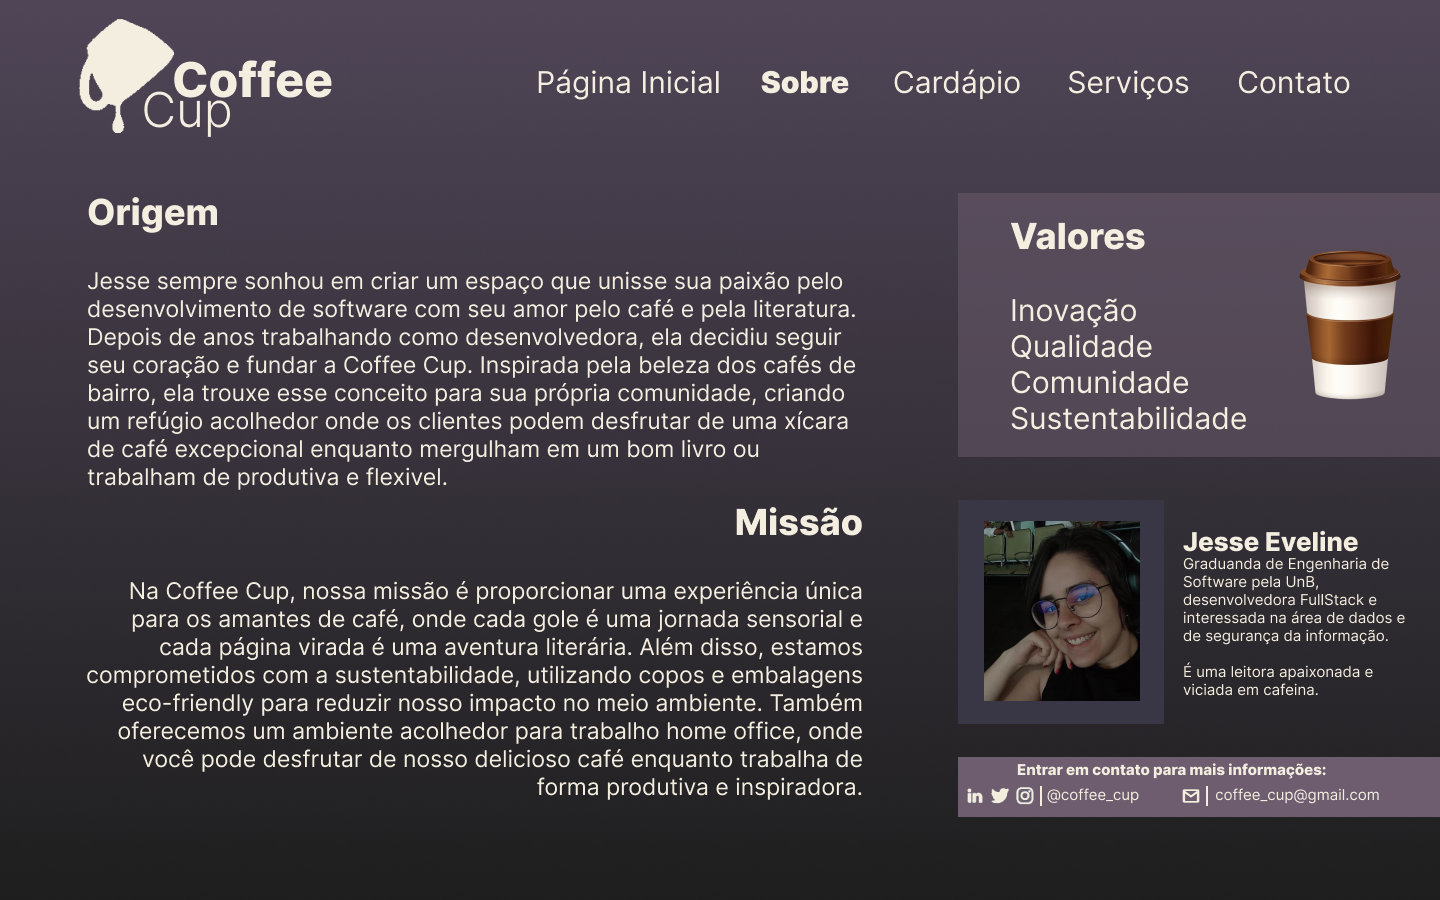
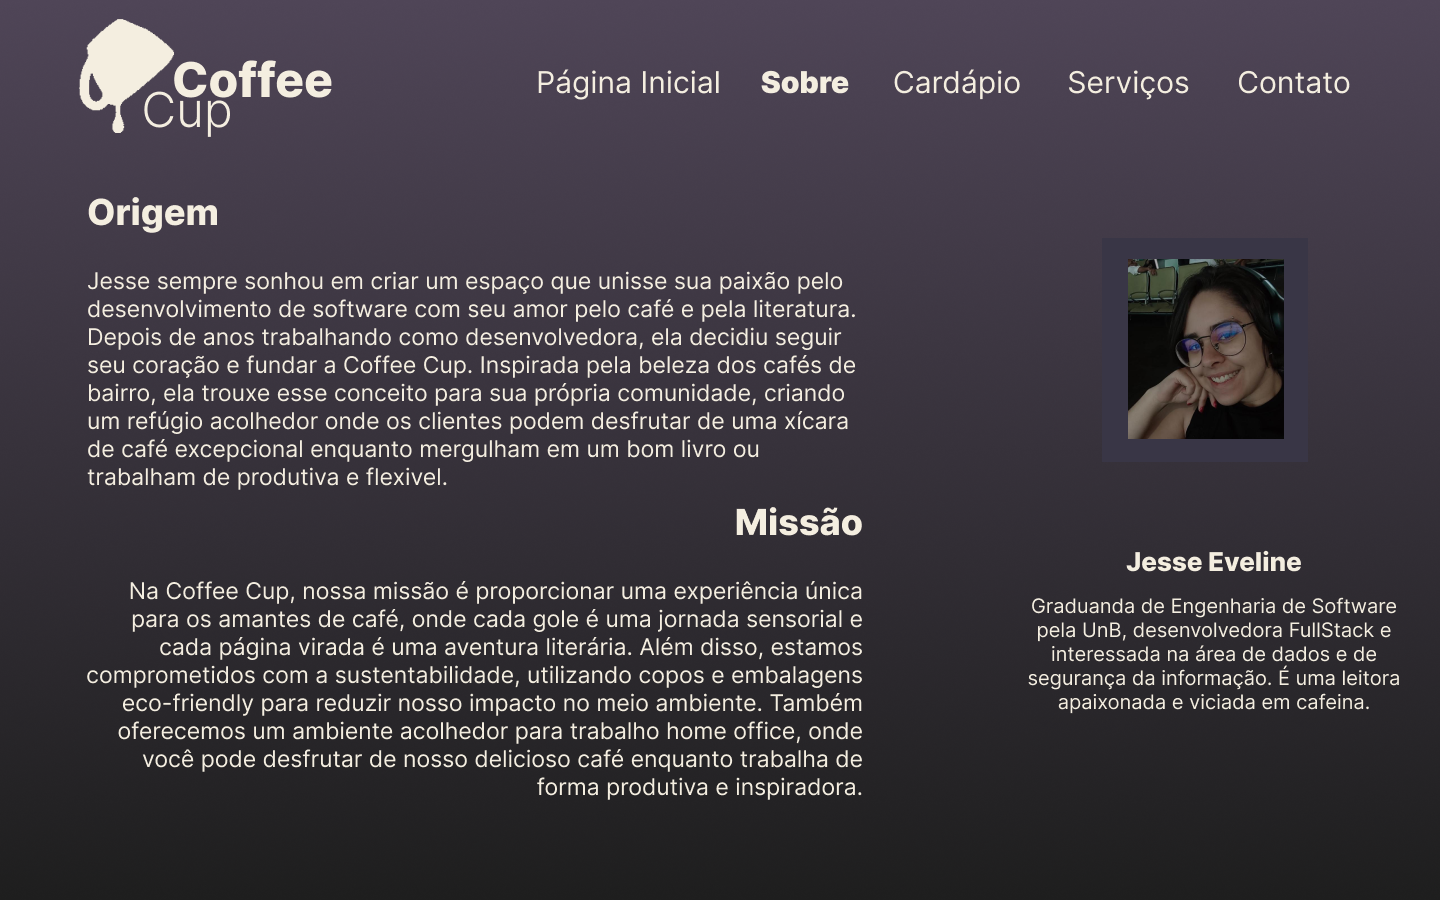
coffee cup update

Changed region(s): [[0.6562, 0.2489, 1.0, 0.5289], [0.6562, 0.56, 0.9688, 0.8089], [0.6562, 0.84, 1.0, 0.9333]]

diff --git a/Coffee Cup/codigo/index.html b/Coffee Cup/codigo/index.html
@@ -14,8 +14,8 @@
     <header>
         <nav>
             <img src="/Coffee Cup/img/logo_completa.png" alt="Logo">
-            <a href="#">Página Inicial</a>
-            <a href="#">Sobre</a>
+            <a href="#pagina-inicial">Página Inicial</a>
+            <a href="#sobre">Sobre</a>
             <a href="#">Cardápio</a>
             <a href="#">Serviços</a>
             <a href="#">Contato</a>
@@ -23,20 +23,39 @@
     </header>
 
     <main>
+        
+        <section class="pagina_1" id="pagina-inicial">
+            <section class="pag_inicial">
+                <div>
+                    <h1>Bem-vindo à Coffee Cup!</h1>
+                    <p>Somos uma cafeteria única, onde a paixão pelo café e pelas palavras se encontram.</p>
+                    <p>A Coffee Cup foi fundada por Jesse, uma desenvolvedora apaixonada por cafés aromáticos, pelas páginas de um bom livro e pela tecnologia.</p>
+                    <p>A Coffee Cup nasceu da fusão de paixões em um ambiente acolhedor e vibrante!</p>
+                </div>
+            </section>
 
-        <section class="pag_inicial"></section>
-        <div class="pag_inicial__texto">
-            <h1>Bem-vindo à Coffee Cup!</h1>
-            <p>Somos uma cafeteria única, onde a paixão pelo café e pelas palavras se encontram.</p>
-            <p>A Coffee Cup foi fundada por Jesse, uma desenvolvedora apaixonada por cafés aromáticos, pelas páginas de um bom livro e pela tecnologia.</p>
-            <p>A Coffee Cup nasceu da fusão de paixões em um ambiente acolhedor e vibrante!</p>
-        </div>
-
-        <div class="pag_inicial__copo">
             <img src="/Coffee Cup/img/copo.png" alt="Copo Coffee Cup">
-        </div>
         </section>
 
+        <section class="pagina_2" id="sobre">
+            <section class="sobre">
+                <div class="sobre__origem">
+                    <h1>Origem</h1>
+                    <p>Jesse sempre sonhou em criar um espaço que unisse sua paixão pelo desenvolvimento de software com seu amor pelo café e pela literatura. Depois de anos trabalhando como desenvolvedora, ela decidiu seguir seu coração e fundar a Coffee Cup. Inspirada pela beleza dos cafés de bairro, ela trouxe esse conceito para sua própria comunidade, criando um refúgio acolhedor onde os clientes podem desfrutar de uma xícara de café excepcional enquanto mergulham em um bom livro ou trabalham de produtiva e flexivel.</p>
+                </div>
+                <div class="sobre__missão">
+                    <h1>Missão</h1>
+                    <p>Na Coffee Cup, nossa missão é proporcionar uma experiência única para os amantes de café, onde cada gole é uma jornada sensorial e cada página virada é uma aventura literária. Além disso, estamos comprometidos com a sustentabilidade, utilizando copos e embalagens eco-friendly para reduzir nosso impacto no meio ambiente. Também oferecemos um ambiente acolhedor para trabalho home office, onde você pode desfrutar de nosso delicioso café enquanto trabalha de forma produtiva e inspiradora. </p>
+                </div>
+            </section>
+            <section class="bio">
+                <img src="/Coffee Cup/img/Jesse.png" alt="Foto de Jesse">
+                <h1 class="bio__titulo">Jesse Eveline</h1>
+                <p class="bio__texto">Graduanda de Engenharia de Software pela UnB, desenvolvedora FullStack e interessada na área de dados e de segurança da informação. É uma leitora apaixonada e viciada em cafeína.</p>
+            </section>
+        </section>
+
+        
 
         <footer class="rodape">
             <p class="rodape__redes_sociais">@coffee_cup</p>

diff --git a/Coffee Cup/codigo/style.css b/Coffee Cup/codigo/style.css
@@ -5,6 +5,14 @@ a {
     color: #F4EEE0;
 }
 
+h1{
+    font-size: 50px;
+}
+
+p{
+    font-size: 30px;
+}
+
 body {
     background: linear-gradient(to bottom, #4F4557, #1E1E1E);
     color: #F4EEE0;
@@ -13,8 +21,11 @@ body {
 
 nav {
     display: flex;
-    justify-content: space-between;
+    justify-content: space-around;
     align-items: center;
+    position: fixed;
+    background-color: #4F4557;
+    width: 100%;
 }
 
 nav a {
@@ -27,8 +38,55 @@ nav a:hover {
     font-weight: bold;
 }
 
-.rodape {
+.pagina_1{
+    padding: 5% 15%;
+    display: flex;
+    align-items: center;
+    justify-content: space-between;
+    gap: 82px;
+}
 
+.pag_inicial{
+    width: 50%;
+    display: flex;
+    flex-direction: column;
+    gap: 40px;
+}
+
+.pagina_2{
+    padding: 5% 15%;
+    display: flex;
+    align-items: center;
+    justify-content: space-between;
+}
+
+.sobre{
+    width: 70%;
+    display: flex;
+    flex-direction: column;
+}
+
+.sobre__missão{
+    text-align: end;
+}
+
+.bio{
+    width: 20%;
+    display: flex;
+    flex-direction: column;
+    text-align: center;
+    font-size: 20px;
+}
+
+.bio__titulo{
+    font-size: 30px;
+}
+
+.bio__texto{
+    font-size: 20px;
+}
+
+.rodape {
     display: flex;
     align-items: flex-end;
     justify-content: space-evenly;

diff --git a/Coffee Cup/readme.md b/Coffee Cup/readme.md
@@ -8,7 +8,7 @@ O objetivo é fortalecer as habilidades em design como a prototipação de inter
 
 1. Index
 
-<img src="/Coffee Cup/figma/Index.png" alt="index">
+<img src="/Coffee Cup/figma/Inicial.png" alt="index">
 
 2. Sobre
 
@@ -30,11 +30,11 @@ O objetivo é fortalecer as habilidades em design como a prototipação de inter
 
 | Item | Tempo de desenvolvimento | Data | Anotações | 
 |---|:---:|:---:|---|
-|Index| 2 semanas | 02/05 - 16/05 | Requer revisão e estudo de ferramentas |
-|Sobre| 2 semanas | 16/05 - 30/05 |
-|Cardápio| 2 semanas | 30/05 - 13/06 |
-|Serviços| 2 semanas | 13/06 - 27/06 |
-|Contato| 2 semanas | 27/06 - 11/07 |
+|Index| 3 dias | 02/05 - 05/05 | Revisão e estudo de ferramentas gerais |
+|Sobre| 1 dia | 05/05 | 
+|Cardápio| 2 semanas | 06/05 - 13/05 | Estudo de ferramentas para filtragem |
+|Serviços| 1 semana | 13/05 - 22/05 |
+|Contato| 2 semanas | 20/05 - 03/06 | Formulário com JS?
 
 ## Anotações gerais para possíveis melhorias
 - JS pro formulário de contato
@@ -44,20 +44,20 @@ O objetivo é fortalecer as habilidades em design como a prototipação de inter
 
 | Item | HTML | CSS | Status Geral | Anotações | 
 |---|:---:|:---:|:---:|---|
-**Index** | ✅ | ⏳ | ⏳|
-Nav Bar | ✅ | ✅ |-|Falta anexar as paginas seguintes
-Texto | ✅ | ⏳ |-|
-Imagem Copo | ✅ | ⏳ |-|Dificuldade em colocar ao lado do texto
-Rodapé | ✅ | ✅ |-|Falta adicionar os icons referentes aos contatos
+**Index** | ✅ | ✅ | ✅|
+Nav Bar | ✅ | ✅ |-|Anexar as paginas seguintes ✅ Fixar no topo ✅
+Texto | ✅ | ✅ |-|
+Imagem Copo | ✅ | ✅ |-|Dificuldade em colocar ao lado do texto ✅
+Rodapé | ✅ | ✅ |-|Icons referentes aos contatos?
 -|
-**Sobre** |
-Origem |
-Missão |
-Valores |
-Bio Jesse |
-*- Foto* |
-*- Texto* |
-Contato |
+**Sobre** | ✅ | ✅ | ✅
+Origem | ✅| ✅ | -
+Missão | ✅| ✅ |-
+Valores | | | - | Retirado
+Bio Jesse | ✅ | ✅ | -
+*- Foto* | ✅ | ✅ | -
+*- Texto* | ✅| ✅  | -
+Contato | | | - | Retirado
 -|
 **Cardápio** |
 Filtros |
